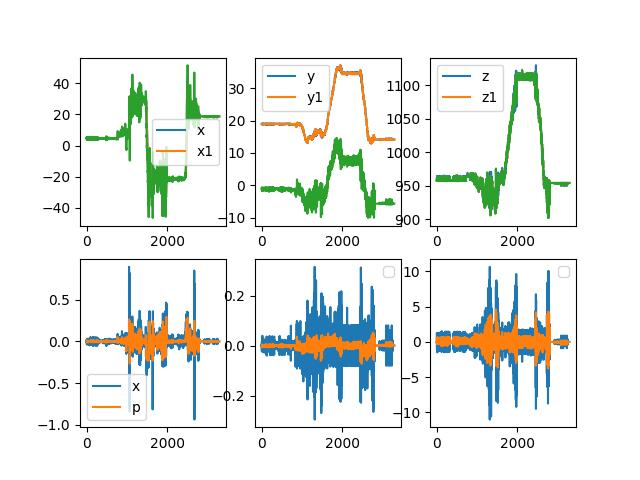
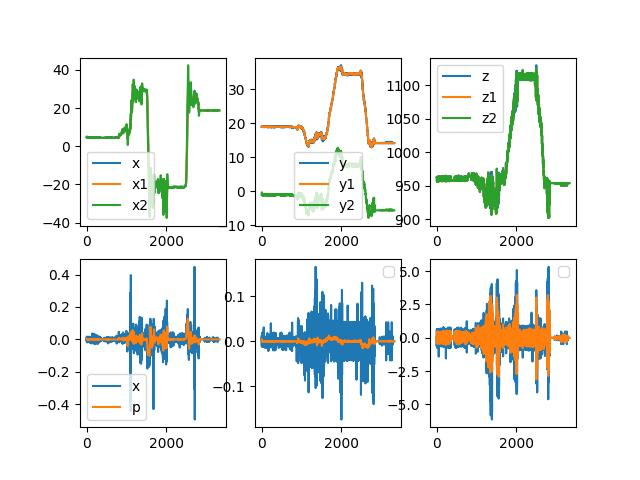
对于x的匀速直线运动实现位移曲线前移

diff --git a/testEKF.py b/testEKF.py
@@ -13,6 +13,7 @@ pitch = 0/180*math.pi
 gesture = [yaw,pitch] # 弧度制
 
 ptsInCam = np.loadtxt(filePath) # mm
+totalTime = np.loadtxt("./assets/time.txt")
 
 ptsInTripod = ptsInCam + np.array([0, 60, 50])
 
@@ -51,12 +52,12 @@ for i in range(ptsInWorld.shape[0]):
     all_beta.append(beta)
     #print(observation)
 
-    deltaTime = 5 # ms
+    deltaTime = totalTime[i] # ms
 
     if ekf.first==False:
-        state[1,0] = (ptsInWorld[i,0] - ptsInWorld[i-1,0])/deltaTime
-        state[3,0] = (ptsInWorld[i,1] - ptsInWorld[i-1,1])/deltaTime
-        state[5,0] = (ptsInWorld[i,2] - ptsInWorld[i-1,2])/deltaTime
+        state[1,0] = (ptsInWorld[i,0] - ptsInWorld[i-1,0])/totalTime[i]
+        state[3,0] = (ptsInWorld[i,1] - ptsInWorld[i-1,1])/totalTime[i]
+        state[5,0] = (ptsInWorld[i,2] - ptsInWorld[i-1,2])/totalTime[i]
 
         # state[1,0] = 0
         # state[3,0] = 0
@@ -100,22 +101,22 @@ ax1 = fig.add_subplot(2,3,1)
 ax1.plot(x, data[:,0])
 ax1.plot(x, data1[:,0])
 ax1.plot(x, prePts[:,0])
-ax1.legend(['x','x1'])
+ax1.legend(['x','x1','x2'])
 ax4 = fig.add_subplot(2,3,2)
 ax4.plot(x, data[:,1], x, data1[:,1], x, prePts[:,1])
-ax4.legend(['y','y1'])
+ax4.legend(['y','y1','y2'])
 ax5 = fig.add_subplot(2,3,3)
 ax5.plot(x, data[:,2], x, data1[:,2], x, prePts[:,2])
-ax5.legend(['z','z1'])
+ax5.legend(['z','z1','z2'])
 
 
 # 速度绘图：
 length = data.shape[0]-1
 x = np.linspace(0, length-1, length)
 print(x)
-dx = np.diff(data[:,0]).T / deltaTime
-dy = np.diff(data[:,1]).T / deltaTime
-dz = np.diff(data[:,2]).T / deltaTime
+dx = np.true_divide(np.diff(data[:,0]).T, totalTime[1:])
+dy = np.true_divide(np.diff(data[:,1]).T, totalTime[1:])
+dz = np.true_divide(np.diff(data[:,2]).T, totalTime[1:])
 
 ax2 = fig.add_subplot(2,3,4)
 ax2.plot(x,dx,x,pdx[1:])
@@ -131,26 +132,29 @@ ax4.legend('z','p')
 plt.savefig('./assets/ptsInWorld.jpg')
 
  
-mpl.rcParams['legend.fontsize'] = 10
+# mpl.rcParams['legend.fontsize'] = 10
  
-fig = plt.figure()
-ax = fig.add_subplot(projection = '3d')
-#ax = Axes3D(fig)
-x=data[:,0]
-y=data[:,2]
-z=data[:,1]*(-1)
+# fig = plt.figure()
+# ax = fig.add_subplot(projection = '3d')
+# #ax = Axes3D(fig)
+# x=data[:,0]
+# y=data[:,2]
+# z=data[:,1]*(-1)
 
-x1=data1[:,0]
-y1=data1[:,2]
-z1=data1[:,1]*(-1)
+# x1=data1[:,0]
+# y1=data1[:,2]
+# z1=data1[:,1]*(-1)
 
-ax.set_box_aspect((1,1,1))
-ax.plot(x,y,z, label='ori')
-ax.plot(x1,y1,z1, label='ekf')
-ax.legend()
+# ax.set_box_aspect((1,1,1))
+# ax.plot(x,y,z, label='ori')
+# ax.plot(x1,y1,z1, label='ekf')
+# ax.legend()
+# plt.savefig('./assets/test.jpg')
 
-print(ax.get_xticks())
  
+ 
+plt.savefig('./assets/test.jpg')
+
 plt.savefig('./assets/test.jpg')
 plt.show()
 

diff --git a/modules/ExtendKF.py b/modules/ExtendKF.py
@@ -116,9 +116,13 @@ class EKF():
     def getPredictedPtsInWorld(self, time):
         '''返回时间time后世界坐标系下目标位置坐标'''
         # 根据匀速直线运动模型计算世界坐标系下预测坐标值
+        k = 1
         predictedPosInWorld = []
         for i in range(self.measurementDimension-1):
-            predictedPosInWorld.append(self.state[i*2] + time * self.state[i*2 + 1])
+            speed = self.state[i*2 + 1]
+            # if abs(speed)<0.006:
+            #     speed = 0.0           
+            predictedPosInWorld.append(self.state[i*2] + k * time * speed)
         predictedPosInWorld.append(self.state[4])
         return np.reshape(predictedPosInWorld,(3,))  
     
